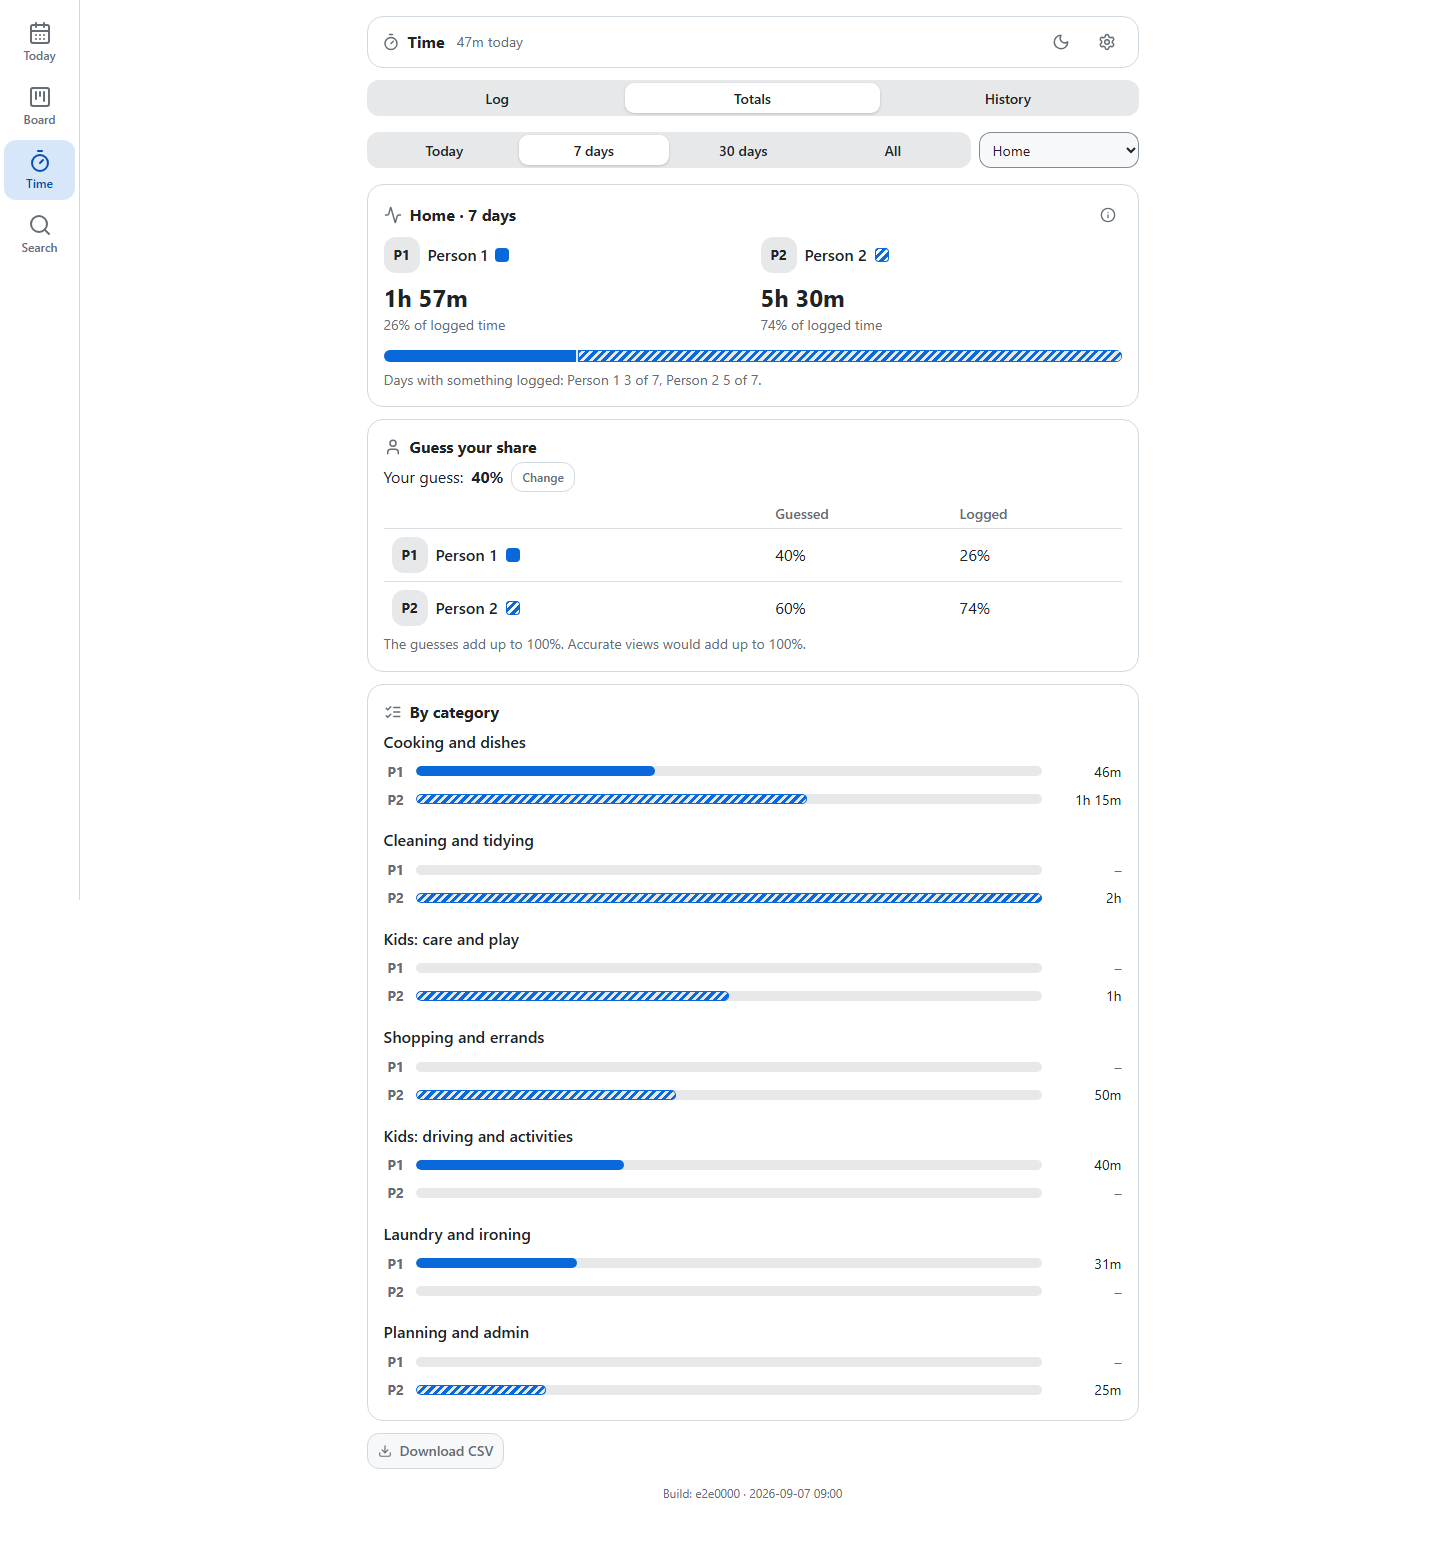
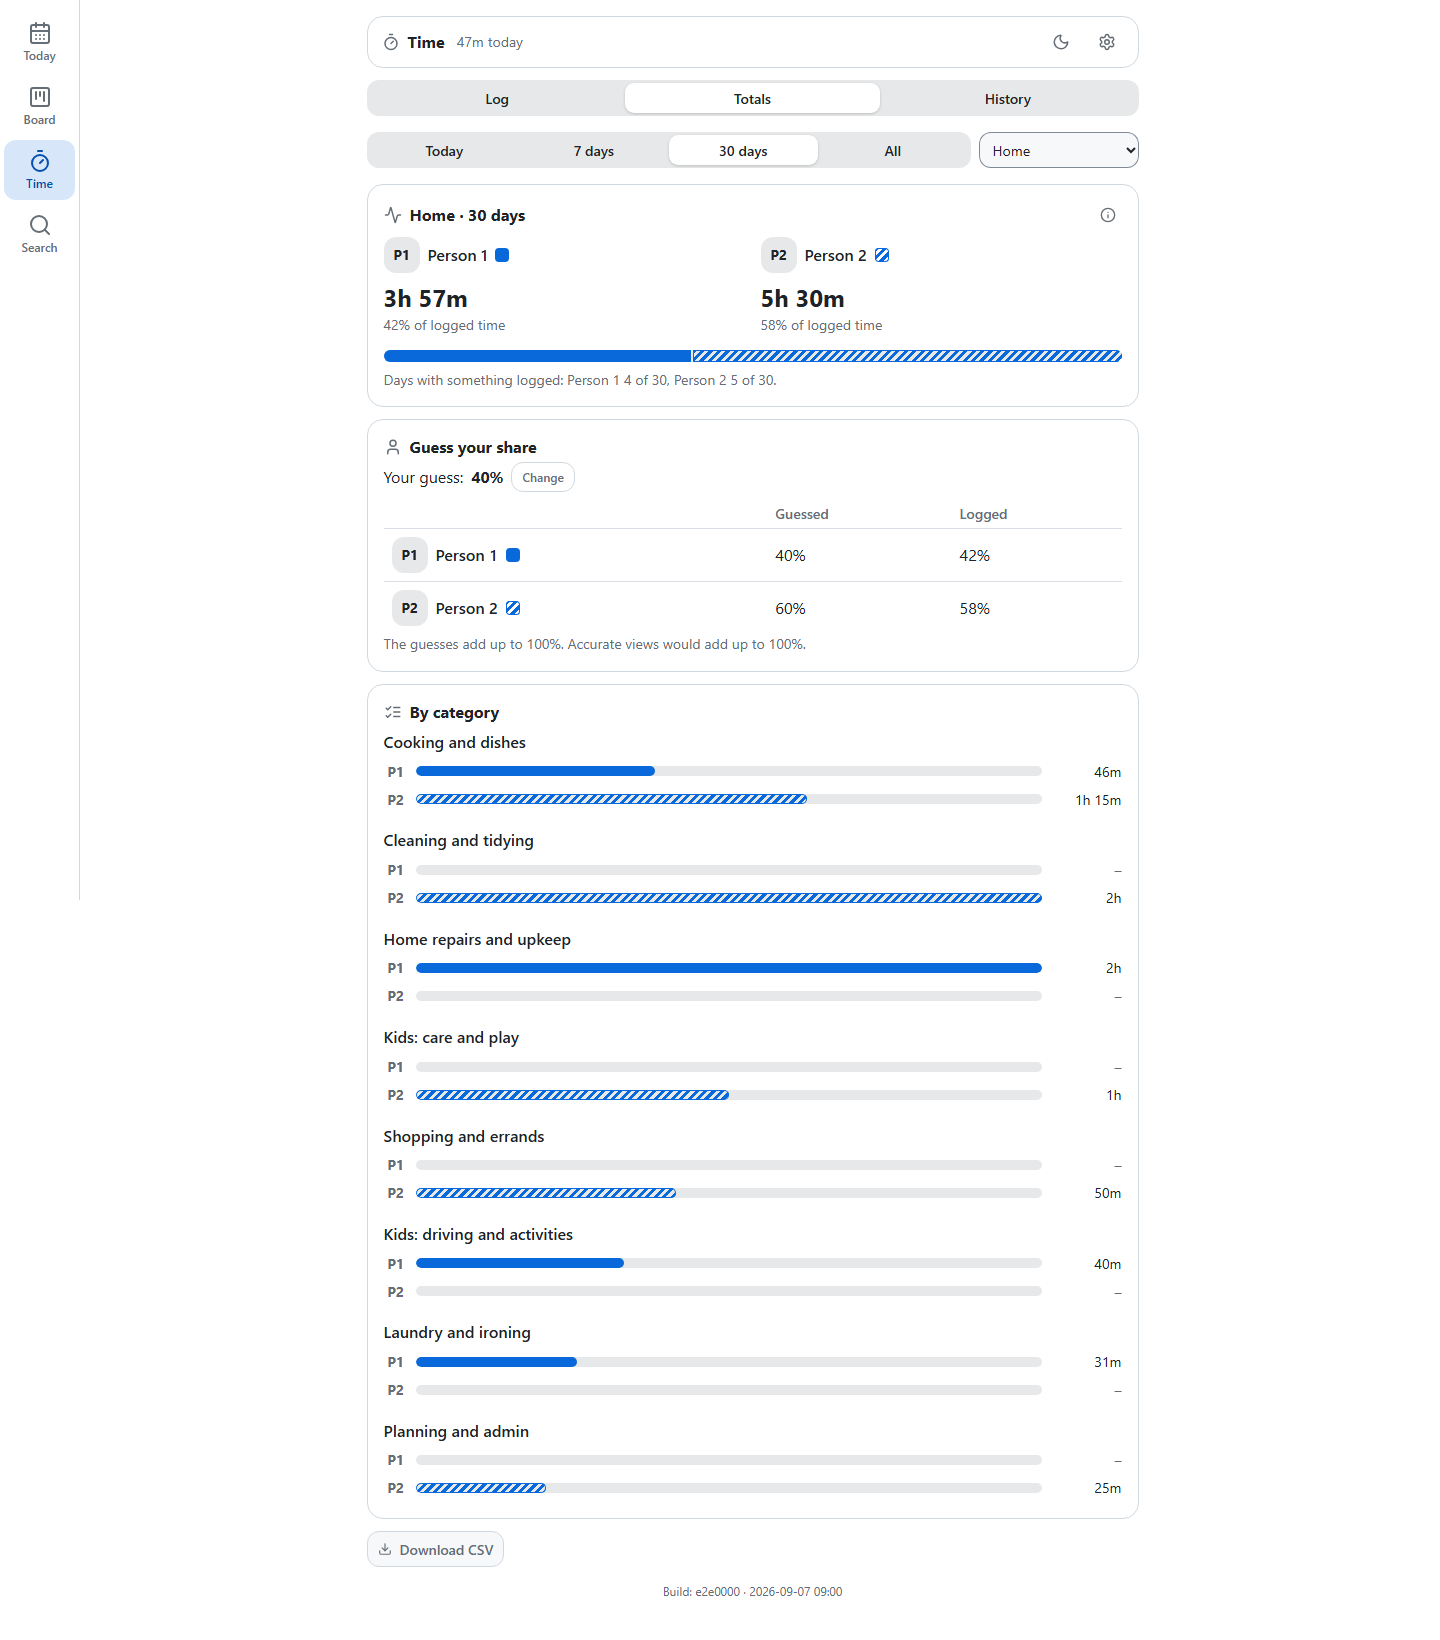
feat: Totals opens on the household comparison at 30 days (#463)
- Totals opened on All areas · 7 days, and the comparison, the shares
  and the guess card only rendered once Home was picked; the prototype's
  Totals is always the Home comparison at 30 days, so with two or more
  people the meta's compare_area and 30 days are now the defaults
- With nothing logged the whole view collapsed to the empty state, hiding
  the guess card a person could lock in first; on the compare area the
  comparison (0m · nothing logged) and the guess card stay, and only the
  per-category bars give way
- Story 32 asserts the defaults instead of picking Home; its Totals shot
  is re-baselined deliberately (30 days instead of 7)

diff --git a/app/webapp/static/time.js b/app/webapp/static/time.js
@@ -11,7 +11,10 @@
  *   Totals   Today · 7 days · 30 days · All, an area filter and, outside the
  *            compare area, Me · Everyone; on the compare area with two or
  *            more people, the household comparison: head-to-head, the split
- *            bar, coverage, the guess card, the per-category bars
+ *            bar, coverage, the guess card, the per-category bars. With two
+ *            or more people it opens there, at 30 days (the prototype's
+ *            Totals, #463), and the comparison and the guess card stay up
+ *            with nothing logged: only the bars give way to the empty state
  *   History  date-grouped rows, a filter above 12, "Show older entries";
  *            the row (and its menu's Edit) opens the editor, Start again,
  *            Delete last behind the confirm
@@ -87,7 +90,7 @@ export function mountTime(opts) {
     timers: [],
     todaySummary: null,      // everyone, today: the glance card and the header line
     recent: [],
-    totals: { period: '7', area: '', who: 'me' },
+    totals: { period: null, area: null, who: 'me' },   // null until the meta picks the defaults
     history: { items: [], total: 0, q: '' },
     shown: false,
     poll: null,
@@ -113,6 +116,12 @@ export function mountTime(opts) {
       const ids = meta.people.map(function (p) { return p.id; });
       const stored = storedPerson();
       st.person = ids.length === 1 ? ids[0] : (ids.indexOf(stored) >= 0 ? stored : null);
+      if (st.totals.area === null) {
+        // first read: the household comparison at 30 days when there is one, else everything at 7
+        const compare = ids.length > 1 && meta.areas.some(function (a) { return a.slug === meta.compare_area; });
+        st.totals.area = compare ? meta.compare_area : '';
+        st.totals.period = compare ? '30' : '7';
+      }
       if (st.totals.area && !meta.areas.some(function (a) { return a.slug === st.totals.area; })) st.totals.area = '';
       settings.render();
       return meta;
@@ -587,6 +596,8 @@ export function mountTime(opts) {
   function renderTotals(q, s, guesses) {
     const parts = [totalsControls(q)];
     const people = Object.keys(s.by_person);
+    // the comparison and the guess card stand with nothing logged (a guess can come first)
+    if (q.compare) parts.push(compareCard(s, people), guessCard(s, people, guesses));
     if (!s.total_minutes) {
       parts.push(emptyStateEl('clock', 'Nothing logged in this period', {
         actionLabel: 'Log some time', onAction: function () { showView('log'); },
@@ -594,9 +605,7 @@ export function mountTime(opts) {
       els.totals.replaceChildren.apply(els.totals, parts);
       return;
     }
-    if (q.compare) {
-      parts.push(compareCard(s, people), guessCard(s, people, guesses));
-    } else {
+    if (!q.compare) {
       const sum = el('section', 'card action-list time-sum');
       const ul = el('ul', 'action-rows');
       const total = el('li', 'action-row time-sum-row');
@@ -652,6 +661,7 @@ export function mountTime(opts) {
         ],
       });
     });
+    const share = function (p) { return Math.round(s.by_person[p] / s.total_minutes * 100); };
     const area = st.meta.areas.find(function (a) { return a.slug === s.area; });
     card.appendChild(cardHead('activity', (area ? area.name : 'Area') + ' · ' + PERIOD_LABELS[s.period], info));
     const h2h = el('div', 'time-h2h');
@@ -659,20 +669,19 @@ export function mountTime(opts) {
       const col = el('div', 'time-h2h-person');
       const name = el('div', 'time-h2h-name');
       name.append(avatar(nameOf(p)), document.createTextNode(nameOf(p)), swatch(fillFor(p)));
-      const share = s.total_minutes ? Math.round(s.by_person[p] / s.total_minutes * 100) : 0;
       col.append(name, el('div', 'time-h2h-big', fmtMinutes(s.by_person[p])),
-        el('div', 'muted time-h2h-pct', share + '% of logged time'));
+        el('div', 'muted time-h2h-pct', s.total_minutes ? share(p) + '% of logged time' : 'nothing logged'));
       h2h.appendChild(col);
     });
     const split = el('div', 'time-split');
     split.setAttribute('role', 'img');
-    split.setAttribute('aria-label', people.map(function (p) {
-      return nameOf(p) + ' ' + Math.round(s.by_person[p] / s.total_minutes * 100) + '%';
-    }).join(', '));
+    split.setAttribute('aria-label', s.total_minutes ? people.map(function (p) {
+      return nameOf(p) + ' ' + share(p) + '%';
+    }).join(', ') : 'Nothing logged yet');
     people.forEach(function (p) {
       const f = el('span', 'time-fill');
       f.dataset.fill = fillFor(p);
-      f.style.width = (s.by_person[p] / s.total_minutes * 100) + '%';
+      f.style.width = (s.total_minutes ? s.by_person[p] / s.total_minutes * 100 : 0) + '%';
       split.appendChild(f);
     });
     const coverage = el('p', 'muted time-coverage', 'Days with something logged: ' + people.map(function (p) {

diff --git a/tests/e2e/test_story_32_time.py b/tests/e2e/test_story_32_time.py
@@ -2,7 +2,8 @@
 
     Open Time → pick who this device is → start a timer → switch it → stop and
     save → add time already spent → edit that entry to the other person →
-    read Totals on Home → lock in a guess and see the other one → in Settings,
+    read Totals, which opens on Home at 30 days → lock in a guess and see the
+    other one → in Settings,
     add a category with a subtitle, see it in Log, clear the subtitle, and
     delete the category made by mistake (#463).
 
@@ -21,7 +22,7 @@ nothing points at, and the server refuses a used one with its own code.
 Shots:
     docs/screenshots/story-32-time-1-desktop.png  Log: today per person, the running timer
     docs/screenshots/story-32-time-2-desktop.png  History: clock ranges, the moved entry
-    docs/screenshots/story-32-time-3-desktop.png  Totals on Home: head-to-head, guesses revealed
+    docs/screenshots/story-32-time-3-desktop.png  Totals (Home, 30 days by default): head-to-head, guesses revealed
     docs/screenshots/story-32-time-4-phone.png    Log on the phone (dark), the other person
 """
 
@@ -149,9 +150,10 @@ def test_track_time_and_compare_shares(seeded_webapp: str, browser: Browser, sho
         dismiss_toasts(page)
         shot(page, shots / "story-32-time-2-desktop.png")
 
-        # ---- Totals on Home: the comparison, then a guess that reveals the other
+        # ---- Totals opens on Home at 30 days (#463): the comparison, then a guess that reveals the other
         page.locator("#timeViews [data-view='totals']").click()
-        page.locator(".time-area").select_option("home")
+        expect(page.locator(".time-area")).to_have_value("home")
+        expect(page.locator(".time-period .segmented-item[aria-pressed='true']")).to_have_text("30 days")
         compare = page.locator("#timeTotals .time-compare")
         expect(compare).to_be_visible()
         expect(compare.locator(".time-coverage")).to_contain_text("Days with something logged: Person 1")
@@ -163,7 +165,7 @@ def test_track_time_and_compare_shares(seeded_webapp: str, browser: Browser, sho
         expect(guess.locator("table tbody tr").nth(1).locator("td").nth(1)).to_have_text("60%")
         expect(guess.locator(".time-card-note")).to_have_text("The guesses add up to 100%. Accurate views would add up to 100%.")
         csv = page.locator("#timeTotals .time-csv")
-        expect(csv).to_have_attribute("href", "/api/time/entries.csv?period=7&area=home")
+        expect(csv).to_have_attribute("href", "/api/time/entries.csv?period=30&area=home")
         dismiss_toasts(page)
         shot(page, shots / "story-32-time-3-desktop.png", full_page=True)
 

diff --git a/docs/validation/story-32-time.md b/docs/validation/story-32-time.md
@@ -1,6 +1,6 @@
 # Story 32 — track time and compare shares (#457)
 
-**Story.** A Time tab sits third in the nav (Today · Board · Time · Search). The first visit on a device asks who is tracking time there, a label for that device and not a sign-in. Log shows today per person, starts a timer with one tap and switches it in one call, and stops and saves it. Add time already spent saves an entry whose end follows from its start and minutes. History lists every entry by day with its clock range; any entry, whoever logged it, can be edited (moved to the other person, for one) or deleted from its row menu. Totals on the Home area compare the people's logged shares and hide the other person's guess until yours is locked in. In Settings → Time categories, a category is added with a subtitle that shows under its name in Log, the subtitle is cleared from its Edit dialog, and a category added by mistake can be deleted; one with entries cannot (#463).
+**Story.** A Time tab sits third in the nav (Today · Board · Time · Search). The first visit on a device asks who is tracking time there, a label for that device and not a sign-in. Log shows today per person, starts a timer with one tap and switches it in one call, and stops and saves it. Add time already spent saves an entry whose end follows from its start and minutes. History lists every entry by day with its clock range; any entry, whoever logged it, can be edited (moved to the other person, for one) or deleted from its row menu. Totals opens on the Home area at 30 days and compares the people's logged shares and hide the other person's guess until yours is locked in. In Settings → Time categories, a category is added with a subtitle that shows under its name in Log, the subtitle is cleared from its Edit dialog, and a category added by mistake can be deleted; one with entries cannot (#463).
 
 ## Steps and expected
 
@@ -16,7 +16,7 @@
 | 8 | Stop and save; the other device stops again | The card goes, Person 1 reads 47m; the second stop is 409 `no_timer` and saves nothing |
 | 9 | Add time already spent: Cleaning, 30 | The start defaults to 08:30 (it just ended at the pinned 09:00); saved |
 | 10 | History, edit that entry to Person 2 | The row read *08:30 to 09:00 · 30m · Person 1*, then *… · Person 2*; Person 1's today drops by exactly 30 and Person 2's rises by 30; the row menu holds Edit, Start again, Delete |
-| 11 | Totals, area Home, guess 40 | The head-to-head, split bar and coverage line; no table until the guess is locked; then Person 2's 60% shows and *The guesses add up to 100%*; the CSV link carries the period and area |
+| 11 | Totals (it opens on Home at 30 days, #463), guess 40 | The head-to-head, split bar and coverage line; no table until the guess is locked; then Person 2's 60% shows and *The guesses add up to 100%*; the CSV link carries the period and area |
 | 11a | Settings → Time categories: add *Made by mistake* to Home with the subtitle *one to delete*; open Log; Edit it and empty the subtitle (#463) | The subtitle shows under the name in Settings and on its Log start row; Edit opens with it filled, and after Save the row has no subtitle |
 | 11b | Open the same category's menu, Delete, confirm (#463) | *Cooking and dishes* (it has entries) offers no Delete; the new one does, the confirm reads *Delete Made by mistake?*, and the row goes; `DELETE` on a used category is 409 `category_in_use` |
 | 12 | Phone (390, dark), pick Person 2 | Log fits with no sideways scroll; the view segments are 44px targets |
@@ -35,6 +35,8 @@ Result: **verified** (e2e desktop and phone, unit, scripted walk, 2026-10-18). *
 **2026-10-18, #463 (delete an empty category):** step 11b runs after the last desktop shot, so the gallery is unchanged. Unit: `test_only_a_category_nothing_points_at_can_be_deleted` (an entry or a running timer blocks it, archived or not; the area closes the gap; a discarded timer frees it) and the delete leg of `test_api_area_and_category_admin` (204, 404, 409 `category_in_use`, `in_use` in the meta). Result: **verified** (e2e desktop, unit).
 
 **2026-10-18, #463 (category subtitle):** step 11a, also after the last desktop shot; the category it adds is deleted in 11b, so the phone shot is unchanged. Unit: `test_a_category_subtitle_is_set_changed_and_cleared` (trimmed, kept by a rename, cleared by an empty one, 80 characters at most) and the 422 in `test_api_area_and_category_admin`. Result: **verified** (e2e desktop, unit).
+
+**2026-10-18, #463 (Totals defaults):** step 11 no longer picks Home; it asserts Home and 30 days are the defaults and the CSV link carries `period=30`. `story-32-time-3-desktop.png` is re-baselined deliberately (30 days instead of 7; two runs byte-identical). Scripted look on a disposable instance with every time entry and guess removed, at 1440 light and 390 dark: the comparison shows both people at *0m · nothing logged*, the guess card offers Lock in, and the empty state sits where the bars would be; no console errors. The empty period is not an e2e step (it would need its own instance). Result: **verified** (e2e desktop, scripted look).
 
 ### Owner's checklist
 

diff --git a/README.md b/README.md
@@ -640,7 +640,7 @@ The **Time** tab (#457) is a time tracker beside the tasks: Toggl-style personal
 - **Who tracks time** is the `time` block in `config/config.json`: `"time": {"people": [{"id": "p1", "name": "Person 1"}, {"id": "p2", "name": "Person 2"}], "compare_area": "home", "long_timer_minutes": 180}`. Rows store the `id`, never the name. A missing block, or an empty list, is one person (`me`): no picker, head-to-head or guess card, just your own tracker. Restart after editing (`tray.bat --restart`).
 - **Which person a device is** is picked once per device on the first visit (stored per browser in `task-os.time.person`) and changed in Settings → This device → *Time tracking as*. It is a label, not a sign-in: anyone with access can log or edit any entry.
 - **Log** shows today per person, this device's running timer and the start list (Recent first, then each area). A tap starts a timer; a tap while one runs offers **Stop and start …** as one call. Timers live on the server: a reload or a second device shows the same one, two people can each have one at once, and a second timer for the same person is refused (409). Past `long_timer_minutes` the card asks whether the timer was forgotten and lets you correct the minutes before saving. **Add time already spent** takes a category, a day (today, yesterday or a date, never the future), a start time and minutes; the end follows. An entry is at most 1440 minutes and counts on the day it *started*, in the server's zone.
-- **Totals**: Today · 7 days · 30 days · All, an area filter, and Me · Everyone. On the compare area (Home) with two or more people: hours and shares head to head, the split bar, how many days each person logged something, the per-category bars, and **Guess your share**, where the other person's guess stays hidden until yours is locked in. People differ by initials and by fill (solid, hatched), never by colour. **Download CSV** exports exactly the entries the totals sum (`GET /api/time/entries.csv?period=` or `?from=&to=`, plus `area`, `person`).
+- **Totals**: Today · 7 days · 30 days · All, an area filter, and Me · Everyone. On the compare area (Home) with two or more people: hours and shares head to head, the split bar, how many days each person logged something, the per-category bars, and **Guess your share**, where the other person's guess stays hidden until yours is locked in. With two or more people Totals opens there, at 30 days, and the comparison and the guess card stay up with nothing logged yet (each person at *0m · nothing logged*, a guess can come first); only the per-category bars give way to the empty state (#463). People differ by initials and by fill (solid, hatched), never by colour. **Download CSV** exports exactly the entries the totals sum (`GET /api/time/entries.csv?period=` or `?from=&to=`, plus `area`, `person`).
 - **History** lists every entry by day with its clock range (`09:10 to 10:40 · 1h 30m`) or, for an imported entry, its duration alone. Tap a row to edit it, whoever logged it: person, category, day, start, minutes, note. A timer belongs to whoever started it, so moving an entry to the other person is how a mis-credited one is fixed. The row menu also has Start again, and Delete (confirmed).
 - **Categories**: areas (seeded Home, Work, Personal, Health) hold categories (Home seeded with ten household ones, every other area with *General*). Settings → Tools → *Time categories* adds, renames, reorders, moves a category to another area, and archives. A category's add and *Edit* dialogs carry its **subtitle**, the line under its name in Log and Settings (up to 80 characters; emptying it clears it, #463). An archived area or category leaves the start list and the pickers but keeps its past entries in History and Totals. Only a category made by mistake can be deleted: its row menu offers **Delete** (behind a confirm) while no entry and no running timer points at it, and the API refuses any other delete with 409 `category_in_use` (#463).
 
